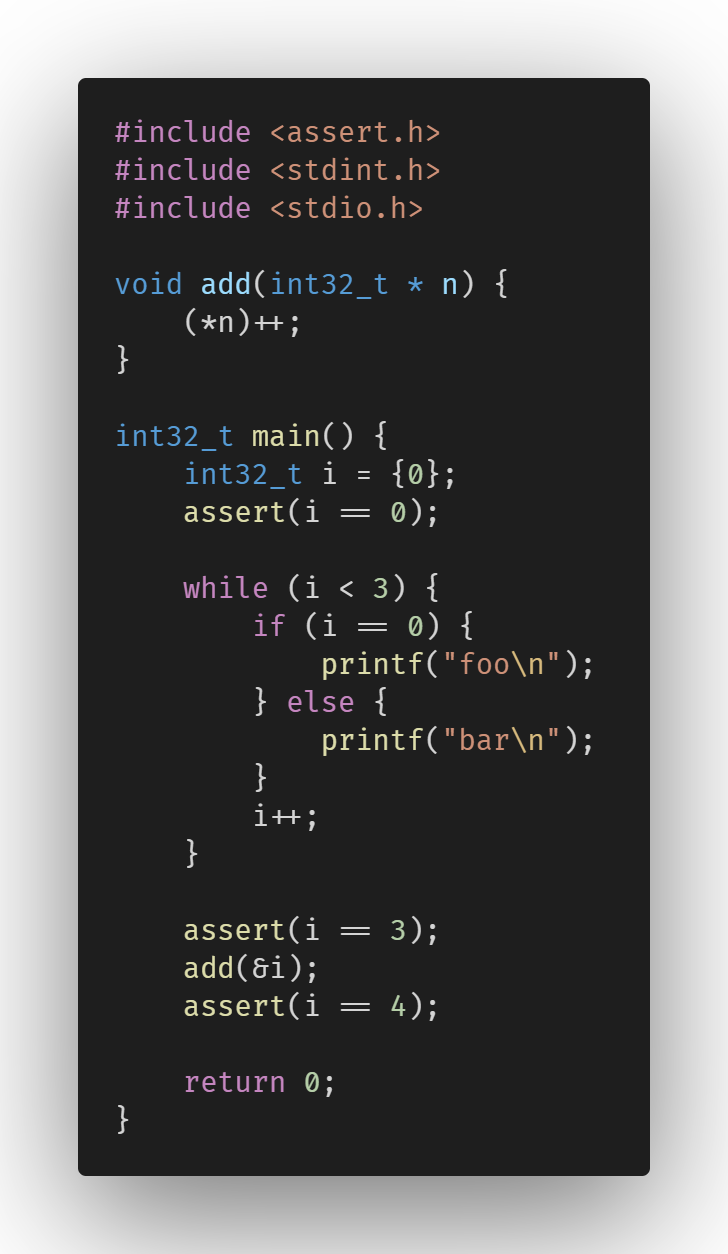
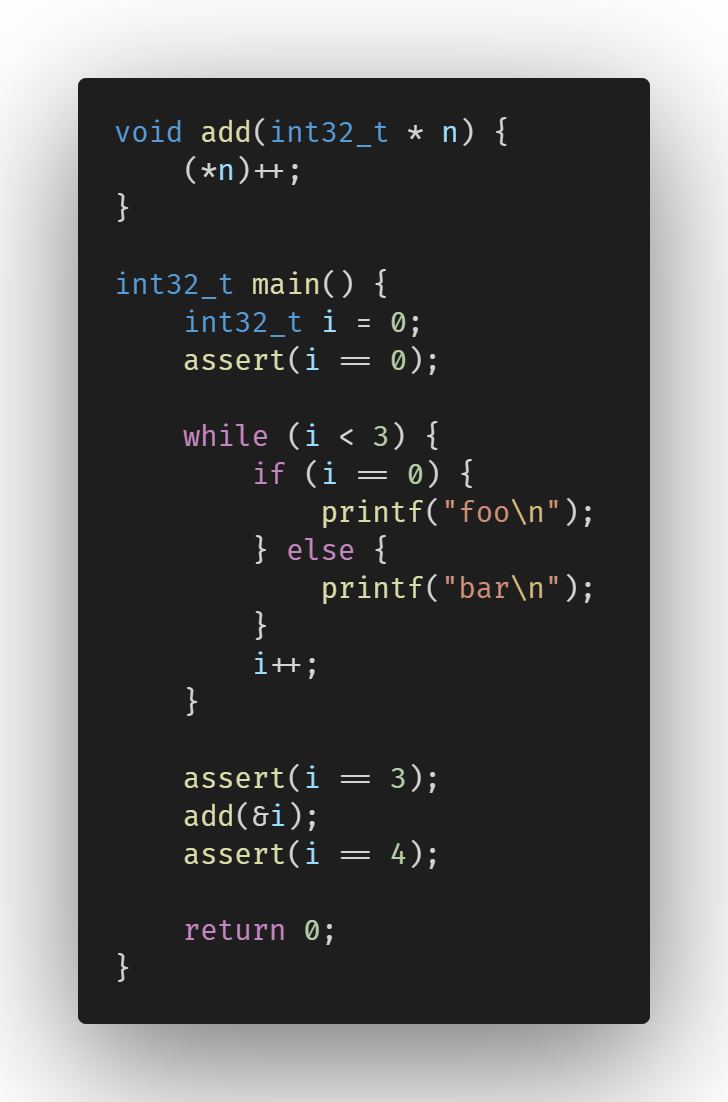
Don't show #includes in basic.png

diff --git a/tests/basic/main.c b/tests/basic/main.c
@@ -7,7 +7,7 @@ void add(int32_t * n) {
 }
 
 int32_t main() {
-	int32_t i = {0};
+	int32_t i = 0;
 	assert(i == 0);
 
 	while (i < 3) {
